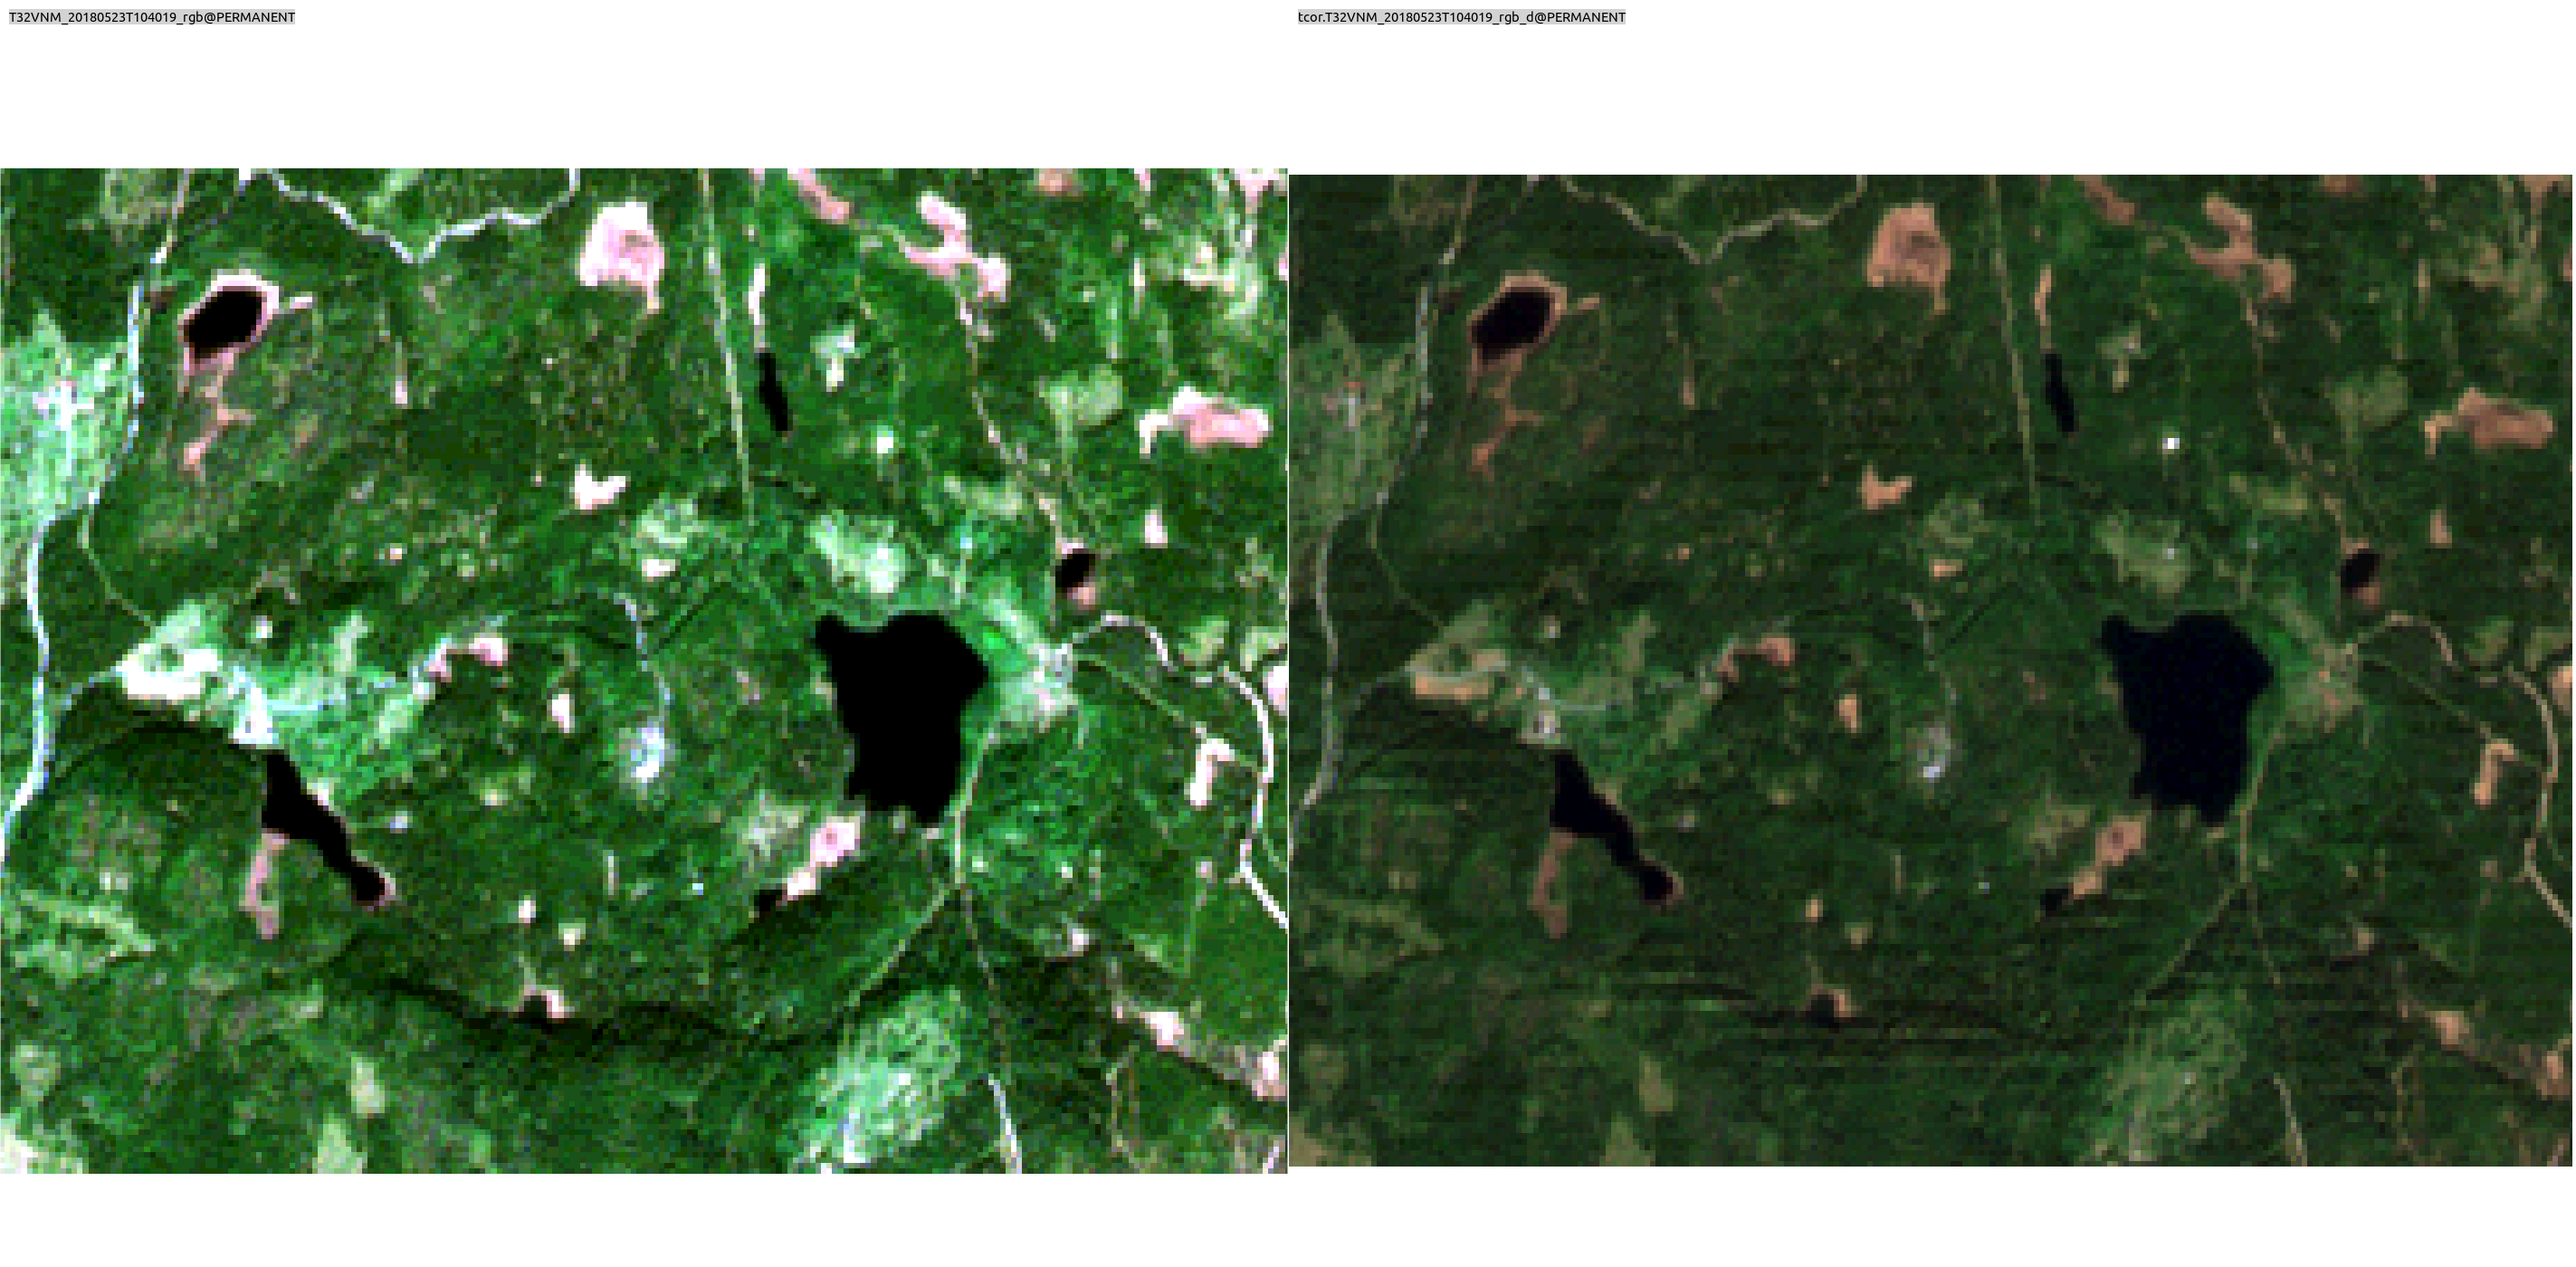
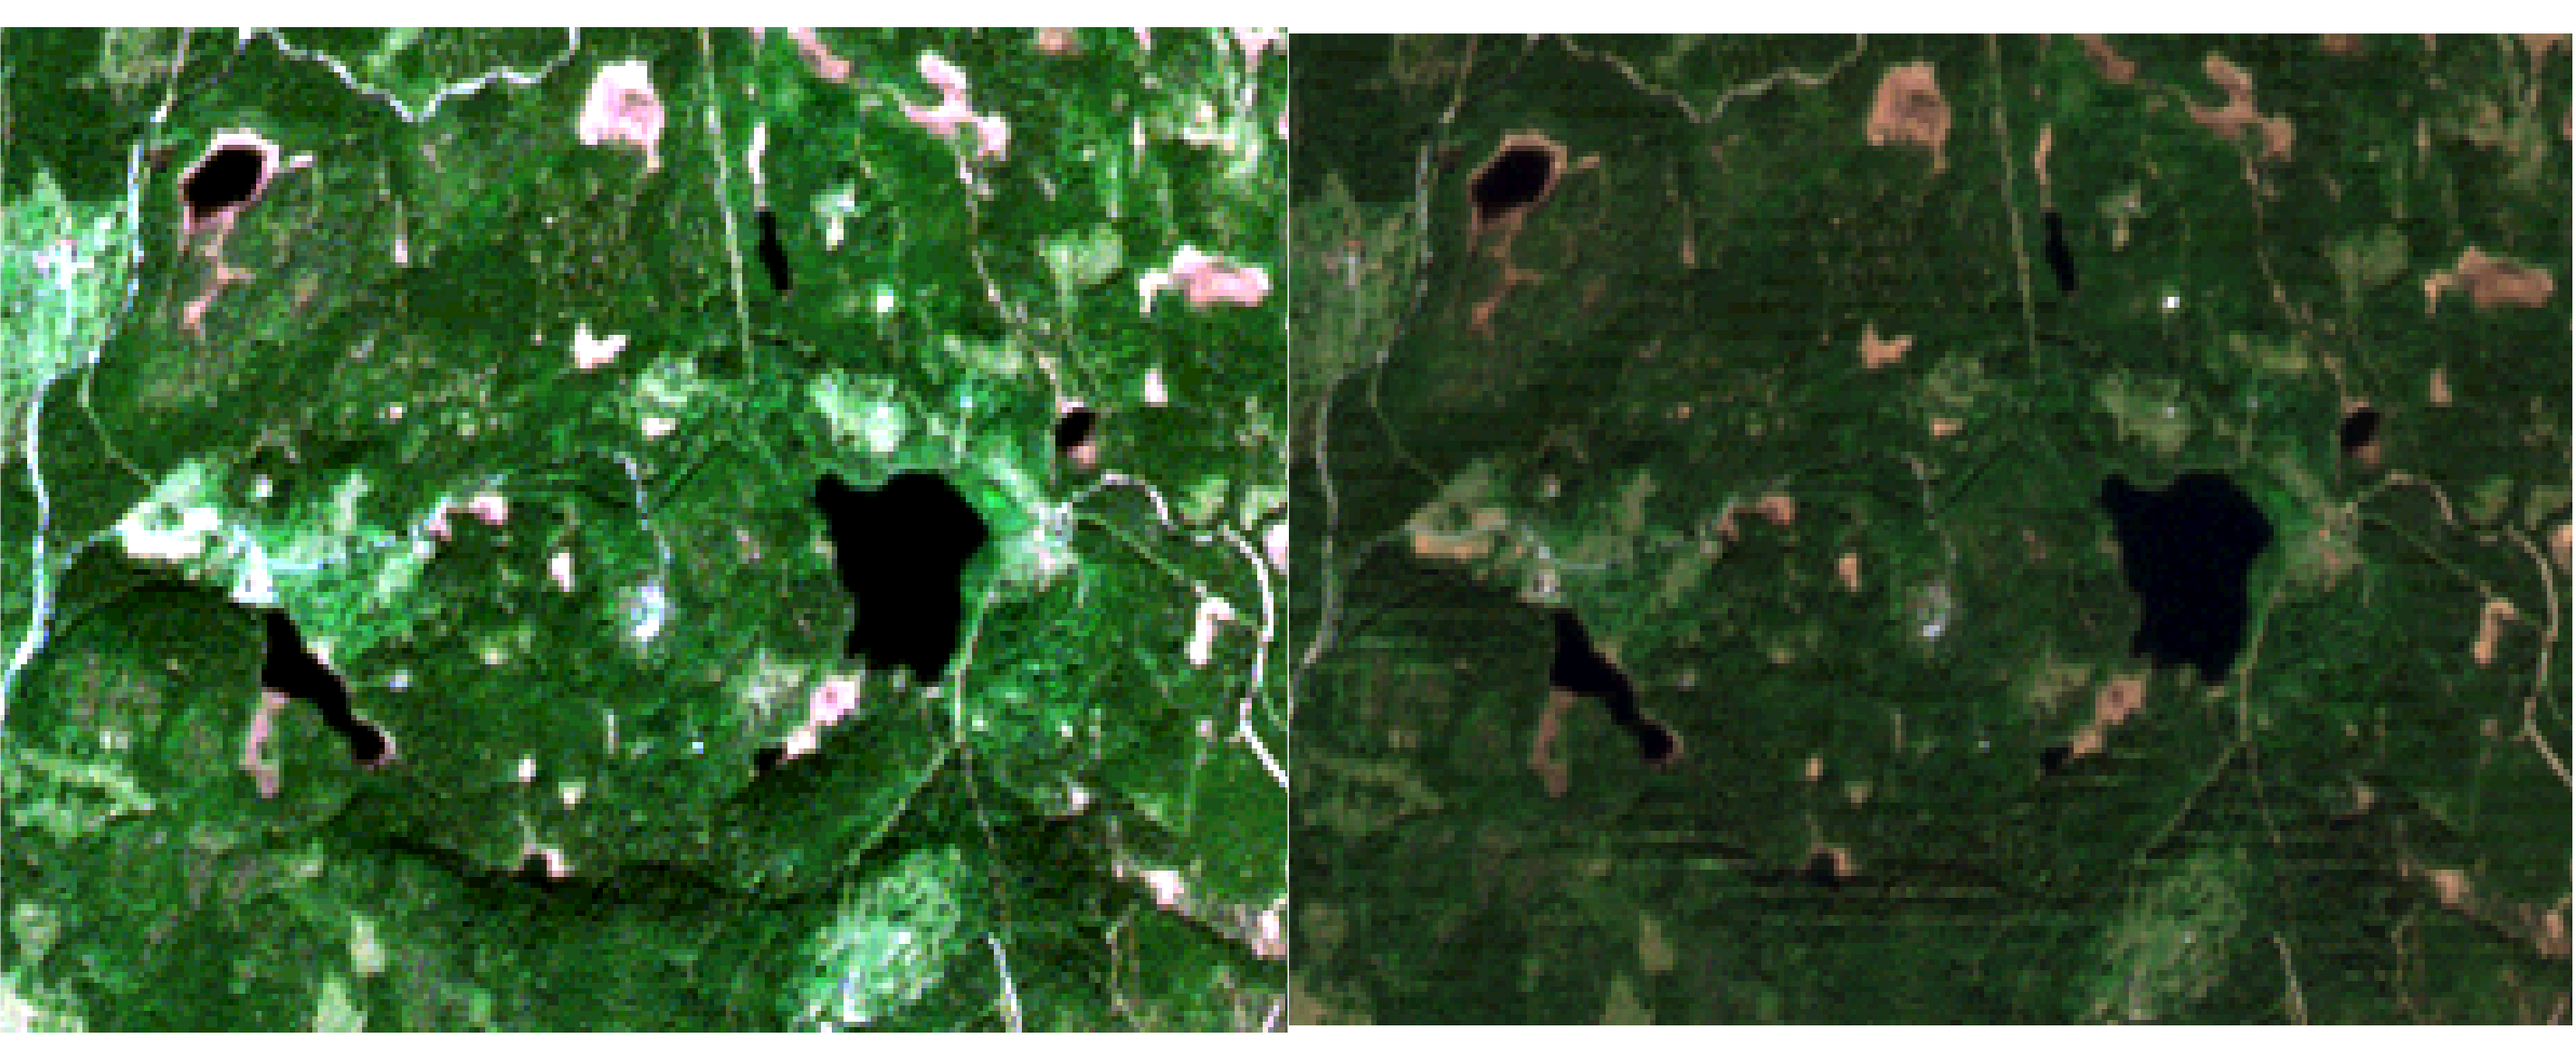
unit 19: mapswipe cosmetics

diff --git a/units/19.rst b/units/19.rst
@@ -172,10 +172,12 @@ code below can be used.
 .. figure:: ../images/units/19/mapswipe.png
    :class: large
 
-   In the left the original RGB data improved using :grasscmd:`i.color.enhance`,
-   in the right the RGB of topographic corrected bands
+   In the left the original RGB data enhanced by
+   :grasscmd:`i.color.enhance`, in the right the RGB of
+   topographically corrected bands.
 
 .. tip::
    
-   To visualize RGB images read the note at :ref:`Unit 03 <rgb_bands>`.
-   To create the previous RGB rast maps, :grasscmd:`r.composite` was used.
+   To visualize RGB images read the note at :ref:`Unit 03
+   <rgb_bands>`. To create RGB raster maps, :grasscmd:`r.composite`
+   can be used.
